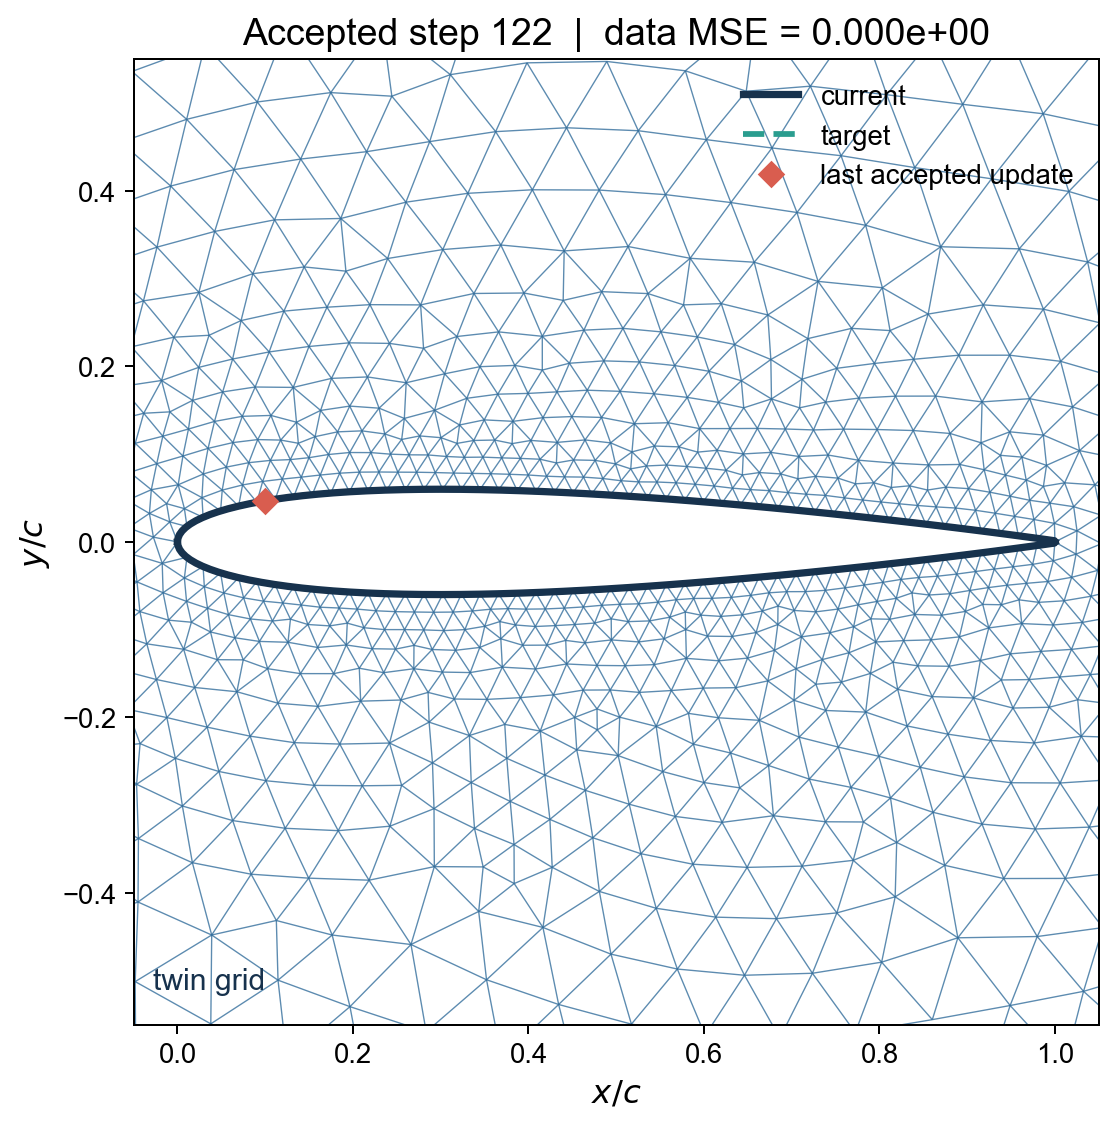
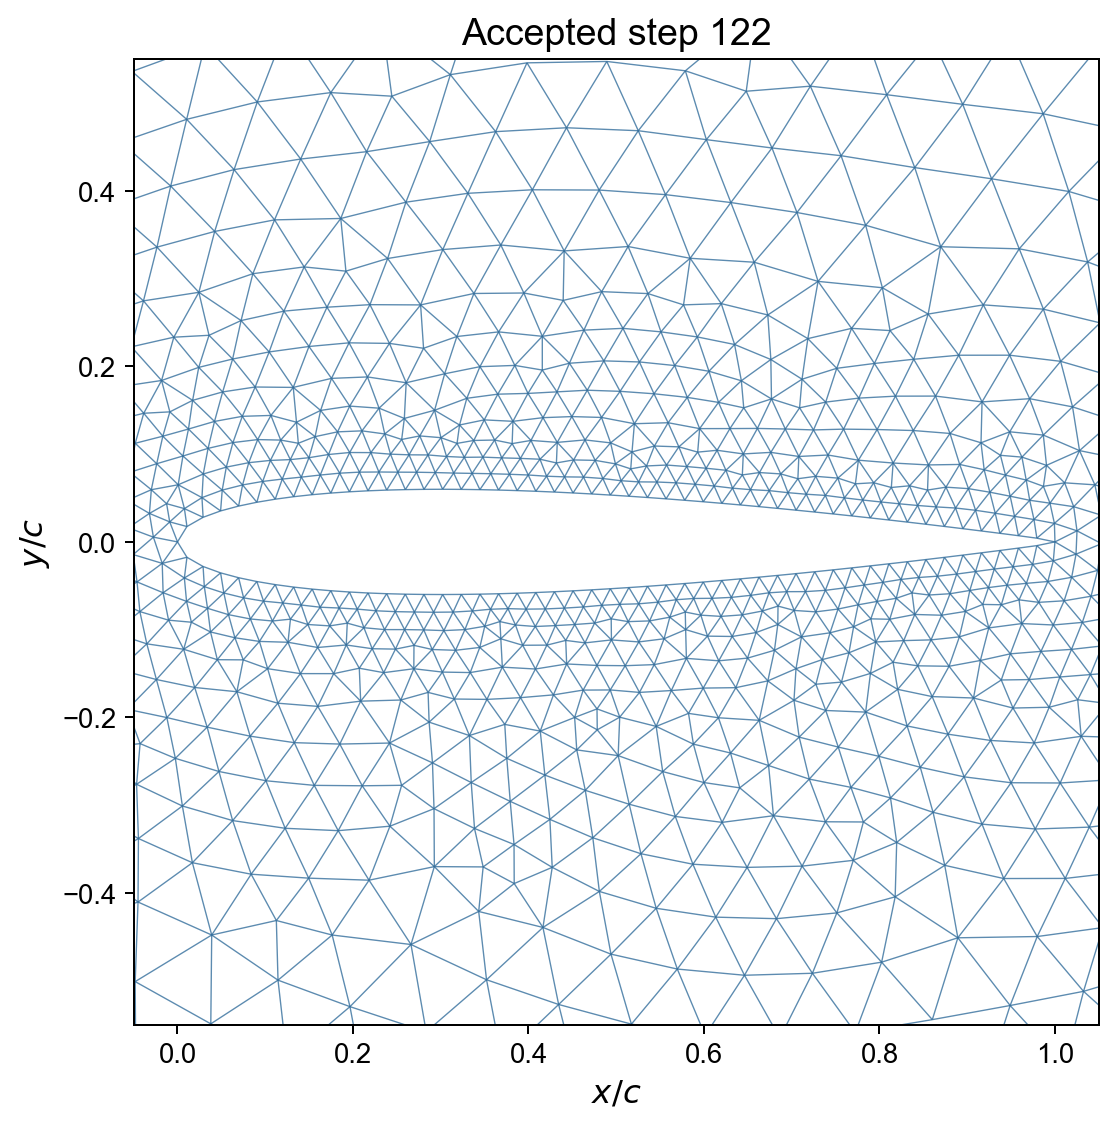
Render digital twin mesh animation without shape overlays

diff --git a/08_airfoil_digital_twin/render_boundary_twin_evolution.py b/08_airfoil_digital_twin/render_boundary_twin_evolution.py
@@ -610,7 +610,6 @@ def render_mesh_only(
     trajectories: list[TrajectoryFrame],
     selected_frames: list[int],
     mesh_states: dict[int, tuple[np.ndarray, np.ndarray]],
-    target_file: Path,
     animation_file: Path,
     final_figure: Path,
     fps: int,
@@ -632,14 +631,10 @@ def render_mesh_only(
     from matplotlib.animation import FuncAnimation, PillowWriter
     from matplotlib.collections import LineCollection
 
-    target = read_airfoil(target_file)
     animation_file.parent.mkdir(parents=True, exist_ok=True)
     final_figure.parent.mkdir(parents=True, exist_ok=True)
 
-    navy = "#17324D"
     blue = "#2F6B9A"
-    teal = "#2A9D8F"
-    red = "#D95D4F"
 
     plt.rcParams.update(
         {
@@ -670,61 +665,6 @@ def render_mesh_only(
         zorder=1,
     )
     axis.add_collection(mesh_collection)
-    target_upper, = axis.plot(
-        [point.x for point in target.upper],
-        [point.y for point in target.upper],
-        color=teal,
-        linewidth=2.3,
-        linestyle="--",
-        label="target",
-        zorder=3,
-    )
-    axis.plot(
-        [point.x for point in target.lower],
-        [point.y for point in target.lower],
-        color=teal,
-        linewidth=2.3,
-        linestyle="--",
-        zorder=3,
-    )
-    current_upper, = axis.plot(
-        [],
-        [],
-        color=navy,
-        linewidth=2.9,
-        label="current",
-        zorder=4,
-    )
-    current_lower, = axis.plot(
-        [],
-        [],
-        color=navy,
-        linewidth=2.9,
-        zorder=4,
-    )
-    accepted_marker, = axis.plot(
-        [],
-        [],
-        marker="D",
-        markersize=7,
-        linestyle="None",
-        color=red,
-        label="last accepted update",
-        zorder=5,
-    )
-    status = axis.text(
-        0.02,
-        0.03,
-        "",
-        transform=axis.transAxes,
-        color=navy,
-        va="bottom",
-    )
-    axis.legend(
-        handles=[current_upper, target_upper, accepted_marker],
-        loc="upper right",
-        frameon=False,
-    )
     title = axis.set_title("")
 
     def draw(frame_number: int):
@@ -734,44 +674,9 @@ def render_mesh_only(
         mesh_collection.set_segments(
             local_mesh_segments(nodes, elements)
         )
-        current_upper.set_data(frame.upper_x, frame.upper_y)
-        current_lower.set_data(frame.lower_x, frame.lower_y)
-        if frame.action is None:
-            accepted_marker.set_data([], [])
-        else:
-            x_values = np.asarray(
-                frame.upper_x
-                if frame.action.surface == "U"
-                else frame.lower_x
-            )
-            y_values = np.asarray(
-                frame.upper_y
-                if frame.action.surface == "U"
-                else frame.lower_y
-            )
-            accepted_marker.set_data(
-                [frame.action.center],
-                [
-                    float(
-                        np.interp(
-                            frame.action.center,
-                            x_values,
-                            y_values,
-                        )
-                    )
-                ],
-            )
-        status.set_text(frame.source)
-        title.set_text(
-            f"Accepted step {frame.accepted_step}  |  "
-            f"data MSE = {frame.loss:.3e}"
-        )
+        title.set_text(f"Accepted step {frame.accepted_step}")
         return (
             mesh_collection,
-            current_upper,
-            current_lower,
-            accepted_marker,
-            status,
             title,
         )
 
@@ -1136,7 +1041,6 @@ def main() -> None:
             trajectories=trajectories,
             selected_frames=selected_frames,
             mesh_states=mesh_states,
-            target_file=target_file,
             animation_file=animation_file,
             final_figure=final_figure,
             fps=arguments.fps,

diff --git a/08_airfoil_digital_twin/README.md b/08_airfoil_digital_twin/README.md
@@ -350,7 +350,9 @@ python3 render_boundary_twin_evolution.py \
 ```
 
 This writes `boundary_mesh_evolution.gif` and its final PNG beside the
-two-panel animation.
+two-panel animation.  Mesh-only mode draws only the triangular mesh edges:
+the current/target airfoil curves, accepted-action marker, status annotation,
+and legend are omitted.
 
 Generated meshes, replay data, checkpoints, and accepted shape histories are
 written below `output/` and are ignored by Git.
